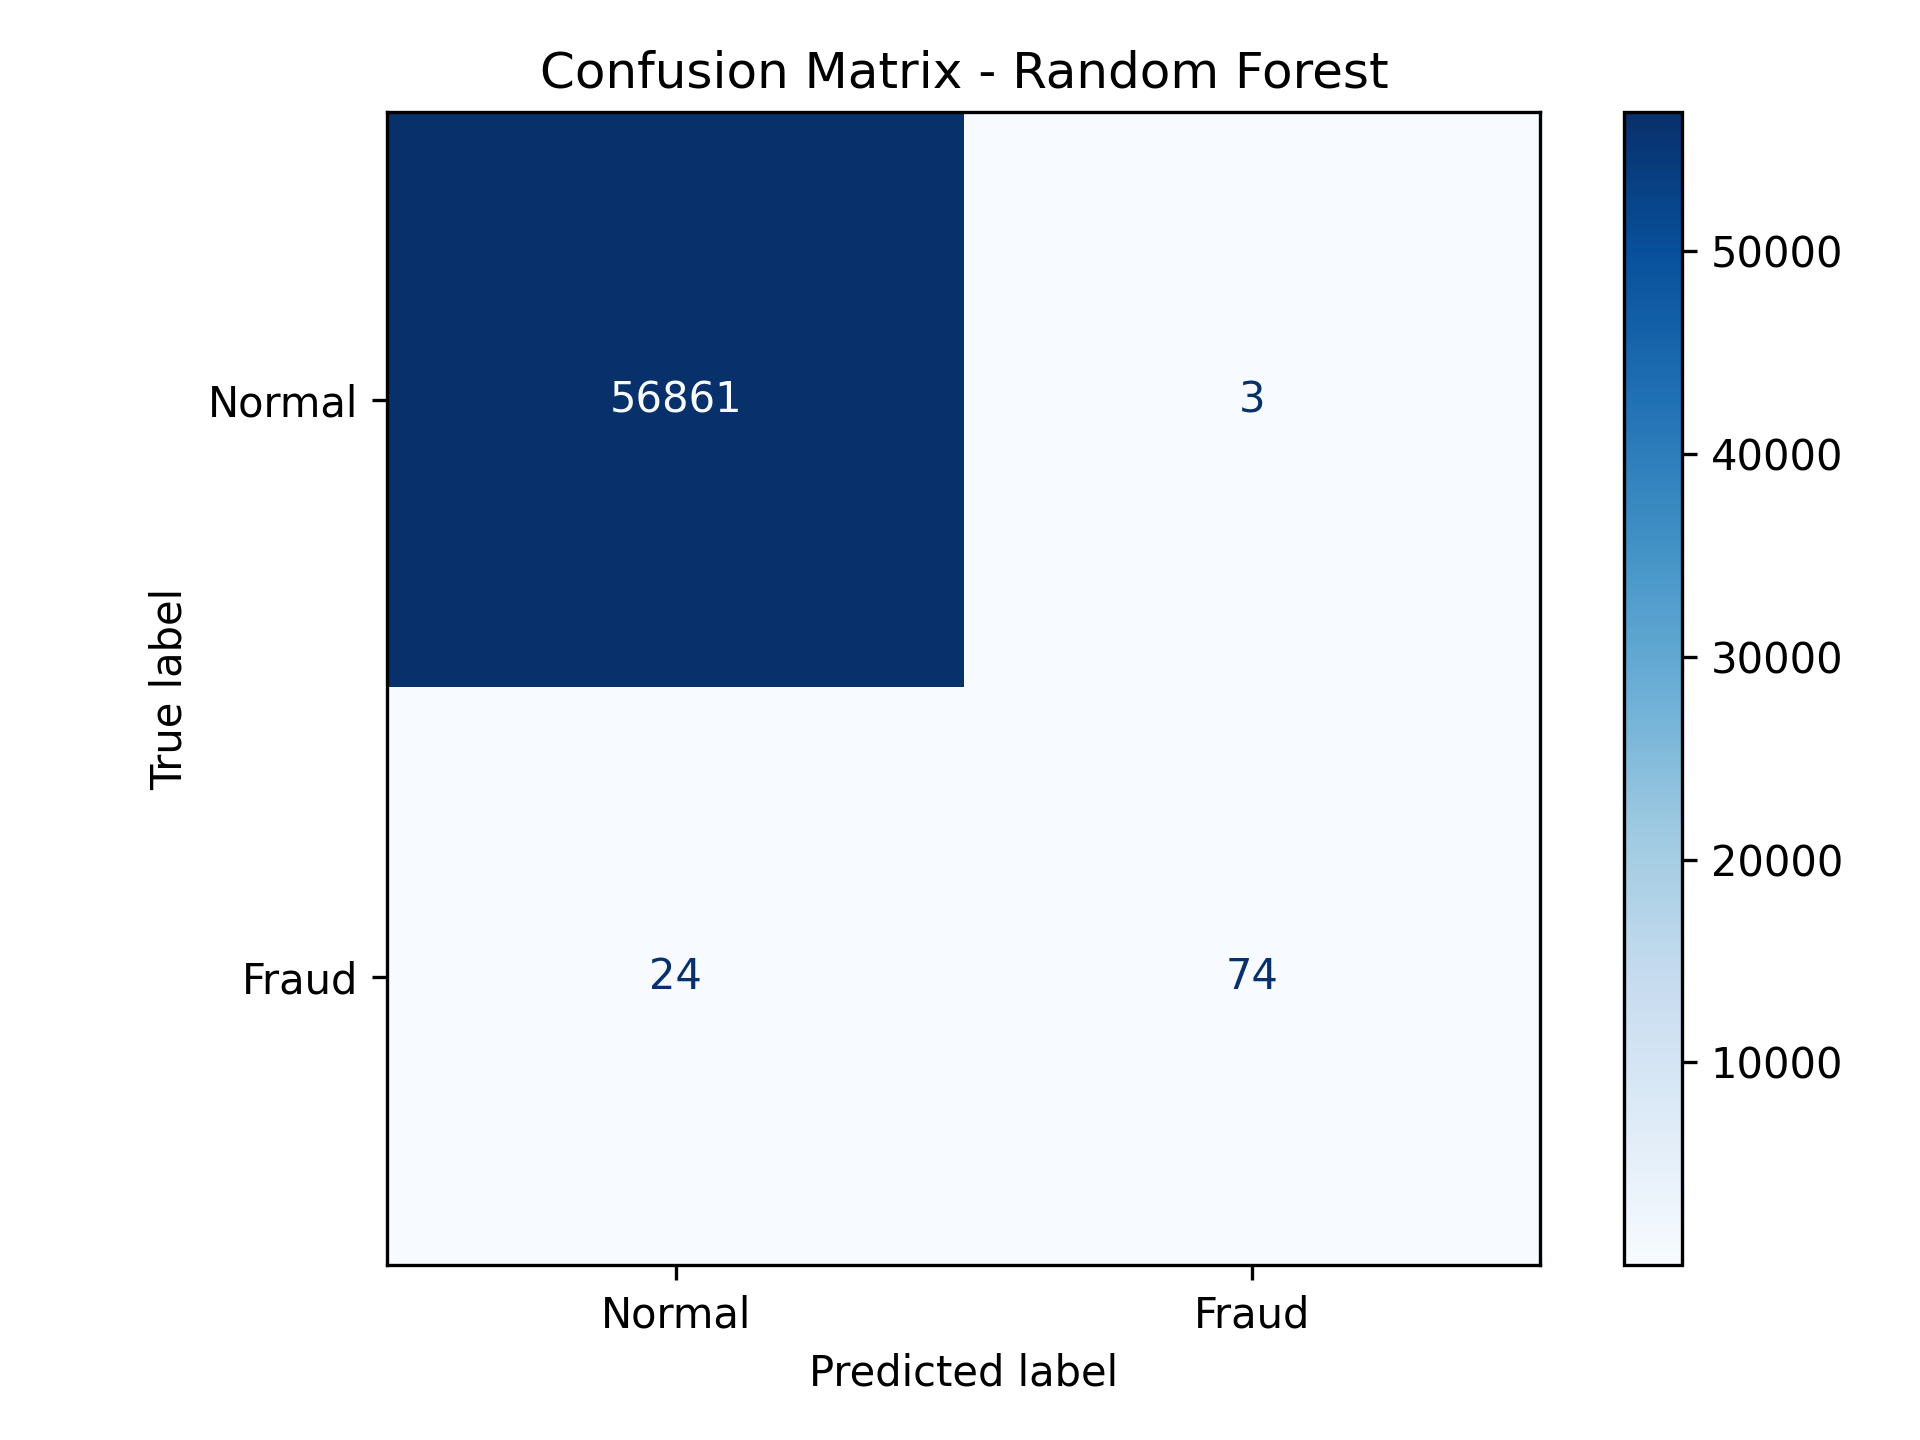
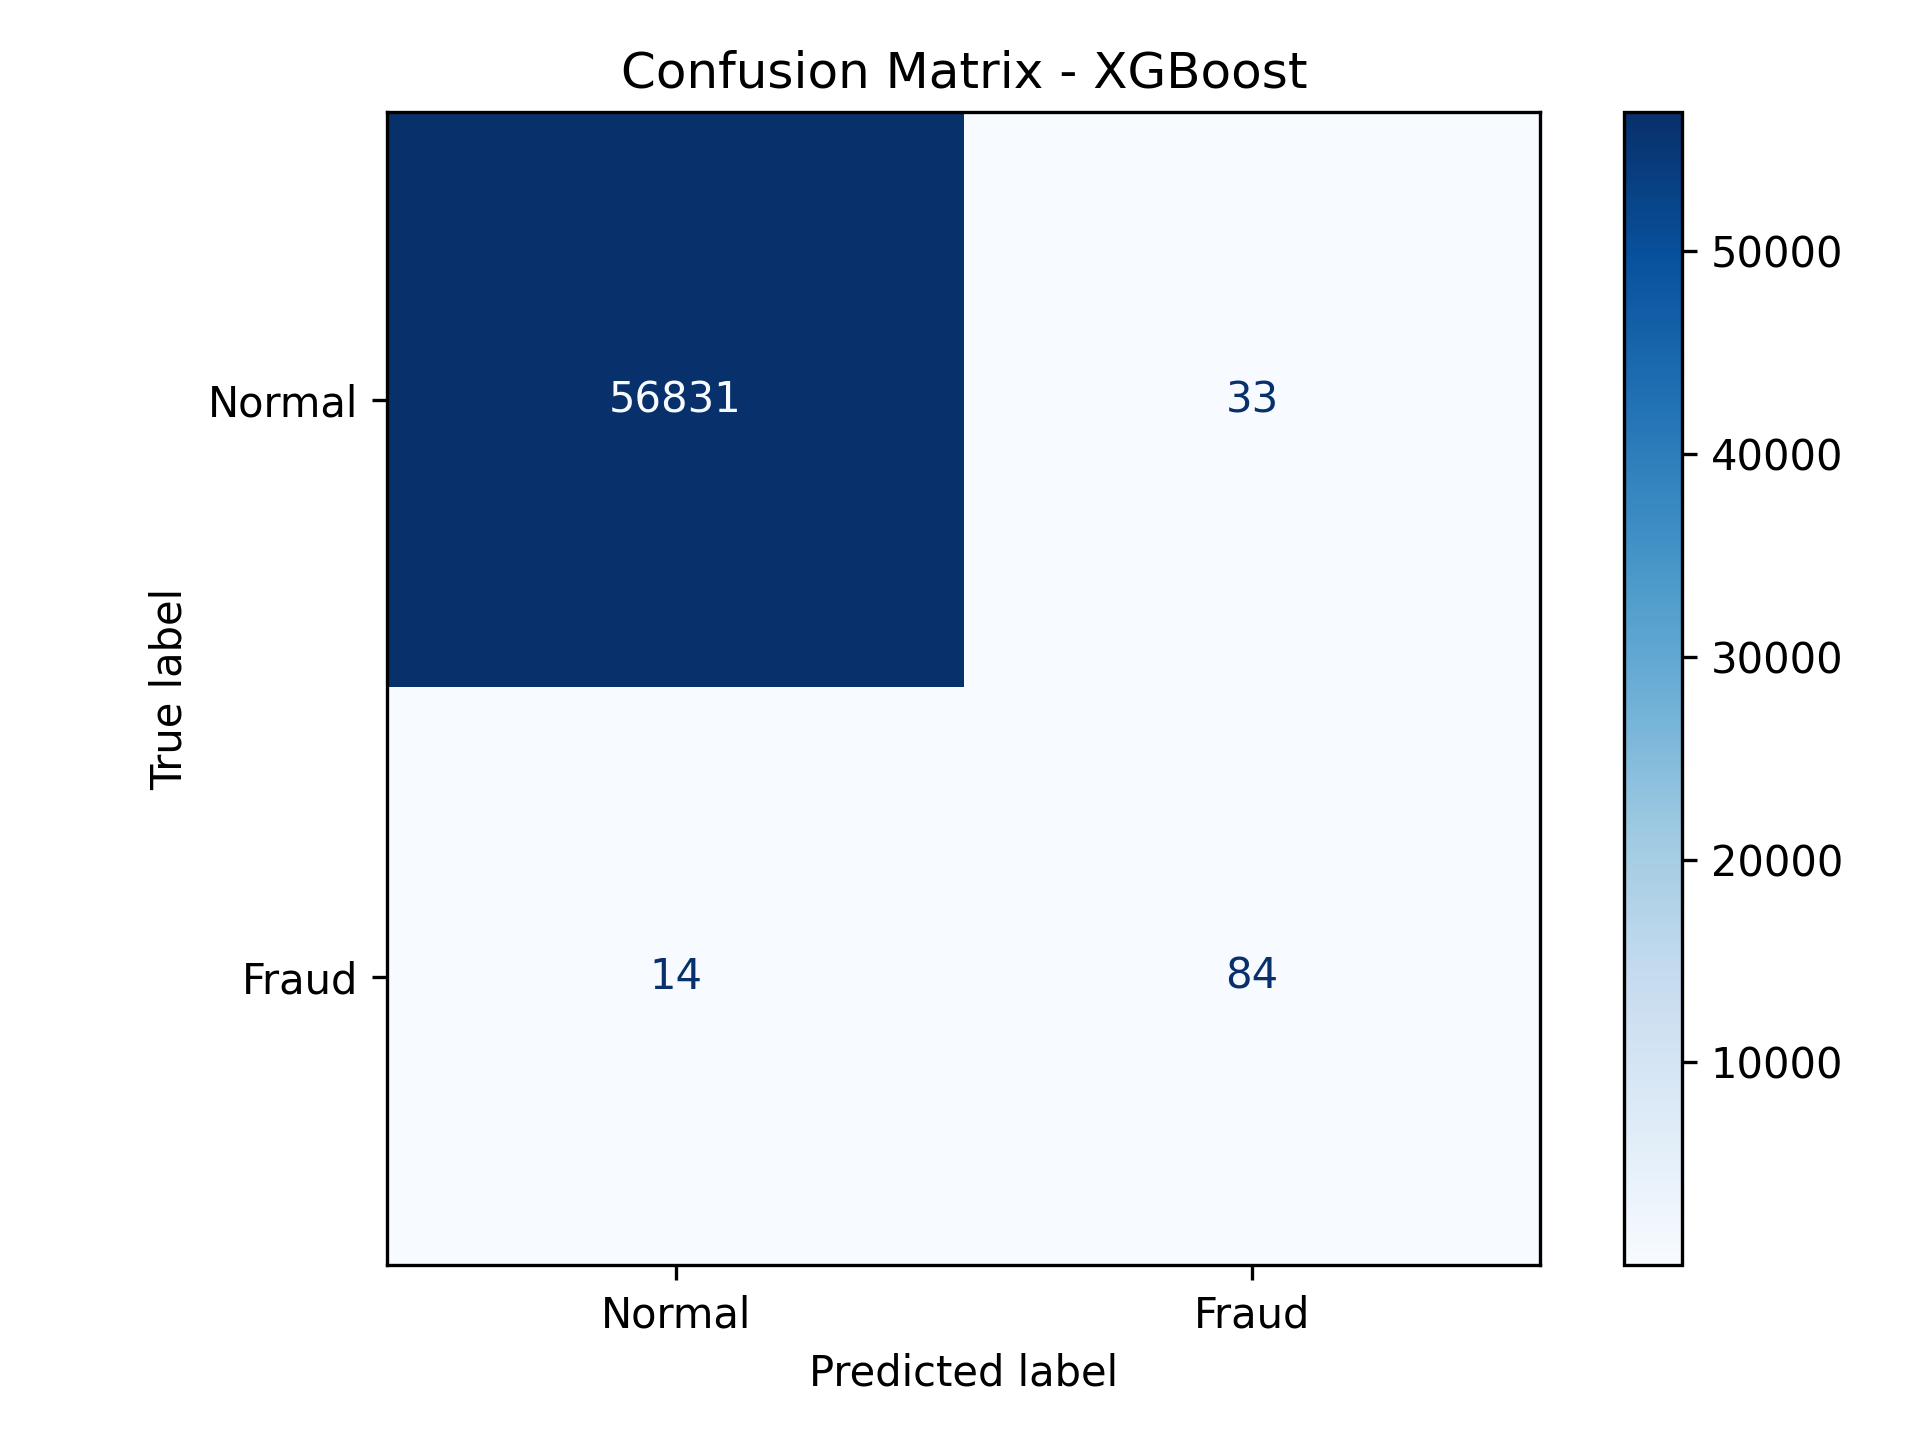
Add XGBoost as a tuned model and report three-model results
- Make XGBoost a standard dependency (requirements.txt) so the headline
  results are reproducible; the graceful fallback in code is retained.
- XGBoost is now tuned alongside Logistic Regression and Random Forest and
  wins on cross-validated PR-AUC (0.8481) and test PR-AUC (0.8668).
- Trim the Random Forest search grid to lower peak memory during tuning.
- Update README: results tables, best-model (now XGBoost), and a threshold
  section showing why scale_pos_weight pushes the optimal cutoff to ~0.92.

diff --git a/train_model.py b/train_model.py
@@ -164,8 +164,8 @@ def build_param_distributions(models):
             "model__C": [0.01, 0.03, 0.1, 0.3, 1.0, 3.0, 10.0, 30.0, 100.0],
         },
         "Random Forest": {
-            "model__n_estimators": [100, 200, 300],
-            "model__max_depth": [None, 10, 20],
+            "model__n_estimators": [100, 200],
+            "model__max_depth": [None, 20],
             "model__min_samples_split": [2, 5],
             "model__min_samples_leaf": [1, 2],
             "model__max_features": ["sqrt", 0.5],

diff --git a/README.md b/README.md
@@ -25,7 +25,7 @@ In practice, fraud teams often care about recall, precision, F1-score, and PR-AU
 - scikit-learn
 - Matplotlib
 - joblib
-- XGBoost, optional if installed
+- XGBoost
 
 ## Dataset
 
@@ -79,14 +79,14 @@ Save CV Results, Metrics, Threshold Comparison, Plots, and Best Model
 
 ## Model Training Approach
 
-The pipeline trains at least two models:
+The pipeline trains three models:
 
 - Logistic Regression
 - Random Forest
-
-If `xgboost` is installed, the pipeline also trains:
-
 - XGBoost Classifier
+
+XGBoost is included in `requirements.txt`. If for some reason it is not installed,
+the pipeline degrades gracefully and trains only Logistic Regression and Random Forest.
 
 Class imbalance is handled using:
 
@@ -127,7 +127,8 @@ Best cross-validated results per model (training set):
 
 | Model | Mean PR-AUC | Std PR-AUC | Best Hyperparameters |
 |---|---:|---:|---|
-| Random Forest | 0.8458 | 0.0184 | n_estimators=200, max_depth=None, min_samples_split=5, min_samples_leaf=1, max_features=sqrt |
+| XGBoost | 0.8481 | 0.0234 | n_estimators=400, max_depth=4, learning_rate=0.05, subsample=0.7, colsample_bytree=1.0 |
+| Random Forest | 0.8451 | 0.0186 | n_estimators=200, max_depth=20, min_samples_split=2, min_samples_leaf=1, max_features=sqrt |
 | Logistic Regression | 0.7568 | 0.0518 | C=0.1 |
 
 ## Results
@@ -137,17 +138,24 @@ Final results on the held-out test set (default 0.5 threshold):
 | Model | Precision | Recall | F1-score | ROC-AUC | PR-AUC |
 |---|---:|---:|---:|---:|---:|
 | Logistic Regression | 0.0611 | 0.9184 | 0.1145 | 0.9720 | 0.7107 |
-| Random Forest | 0.9610 | 0.7551 | 0.8457 | 0.9566 | 0.8633 |
+| Random Forest | 0.9487 | 0.7551 | 0.8409 | 0.9514 | 0.8571 |
+| XGBoost | 0.7179 | 0.8571 | 0.7814 | 0.9821 | 0.8668 |
 
 PR-AUC is used as the selection metric because it is better suited for imbalanced
-classification than accuracy. Random Forest wins on both cross-validation and the
-held-out test set.
+classification than accuracy. XGBoost wins on cross-validated PR-AUC (the selection
+metric) and also has the highest test-set PR-AUC and ROC-AUC, with Random Forest a
+close second.
 
 ### Key Takeaways
 
-- Logistic Regression achieved higher recall at the default threshold, meaning it identified more fraud cases, but its low precision indicates many false positives.
-- Random Forest achieved stronger precision, F1-score, and PR-AUC, making it the best model under the PR-AUC selection rule.
-- Cross-validation and hyperparameter tuning are already applied (see the section above); the decision threshold is tuned below to adjust the precision-recall tradeoff.
+- Logistic Regression achieved the highest recall at the default threshold but with
+  very low precision, meaning it flags far too many legitimate transactions as fraud.
+- XGBoost has the best cross-validated and test-set PR-AUC, so it is selected as the
+  best model; Random Forest is a close second.
+- At the default 0.5 threshold XGBoost shows lower precision and F1 than Random Forest.
+  This is because `scale_pos_weight` shifts its predicted probabilities, so 0.5 is a
+  poor cutoff. Tuning the decision threshold (below) fixes this and makes XGBoost the
+  strongest model overall.
 
 ### Confusion Matrix
 
@@ -162,25 +170,25 @@ operating point for imbalanced fraud detection. For the best model, a decision
 threshold is selected from **cross-validated predictions on the training set** (the
 test set is not used to pick the threshold) and then applied once to the test set.
 
-Test-set metrics for the best model (Random Forest) at different thresholds:
+Test-set metrics for the best model (XGBoost) at different thresholds:
 
 | Strategy | Threshold | Precision | Recall | F1-score |
 |---|---:|---:|---:|---:|
-| Default (0.5) | 0.50 | 0.9610 | 0.7551 | 0.8457 |
-| Max F1 | 0.20 | 0.8300 | 0.8469 | 0.8384 |
-| Recall >= 0.90 | 0.01 | 0.1080 | 0.8980 | 0.1928 |
+| Default (0.5) | 0.50 | 0.7179 | 0.8571 | 0.7814 |
+| Max F1 | 0.92 | 0.8804 | 0.8265 | 0.8526 |
+| Recall >= 0.90 | 0.01 | 0.0543 | 0.9286 | 0.1025 |
 
 Key takeaways:
 
-- The **max-F1 threshold (0.20)** trades precision for recall: it lifts recall from
-  0.76 to 0.85, but on this test set its F1 (0.838) is essentially tied with the
-  default (0.846). The right choice depends on whether catching more fraud is worth
-  the extra false positives.
-- The max-F1 threshold is chosen on training cross-validation, so it does not always
-  beat the default on the test set. This small gap is itself a useful illustration
-  of how an operating point selected on one split generalizes to unseen data.
-- Forcing **90% recall** requires such a low threshold (0.01) that precision
-  collapses, which illustrates the precision-recall tradeoff and why the threshold
+- XGBoost is trained with `scale_pos_weight` to counter the class imbalance, which
+  inflates its predicted fraud probabilities. As a result the default 0.5 cutoff is a
+  poor operating point (F1 0.78) and the max-F1 threshold is pushed up to about 0.92.
+- At the **max-F1 threshold (0.92)** XGBoost reaches precision 0.88 and recall 0.83 for
+  an F1 of 0.85 — a large jump over its default-0.5 F1 (0.78), and better than Random
+  Forest. This is a concrete example of why the decision threshold must be tuned,
+  especially for models that internally reweight the classes.
+- Forcing **90% recall** requires such a low threshold (0.01) that precision collapses
+  to about 0.05, which illustrates the precision-recall tradeoff and why the threshold
   should be chosen from the business cost of false negatives vs false positives.
 
 ## Generated Outputs
@@ -220,16 +228,10 @@ On Windows:
 .venv\Scripts\activate
 ```
 
-Install dependencies:
+Install dependencies (includes XGBoost):
 
 ```bash
 pip install -r requirements.txt
-```
-
-Optional: install XGBoost if you want to train the XGBoost model too:
-
-```bash
-pip install xgboost
 ```
 
 Run the full pipeline:
@@ -268,8 +270,7 @@ fraud-detection-ml-pipeline/
 - Train-test splitting with stratification
 - Preprocessing with scikit-learn pipelines
 - Handling class imbalance with class weights
-- Training Logistic Regression and Random Forest models
-- Optional XGBoost model training
+- Training Logistic Regression, Random Forest, and XGBoost models
 - Fraud-focused model evaluation with precision, recall, F1-score, ROC-AUC, PR-AUC, and confusion matrix
 - Leak-free model selection with stratified k-fold cross-validation
 - Hyperparameter tuning with RandomizedSearchCV
